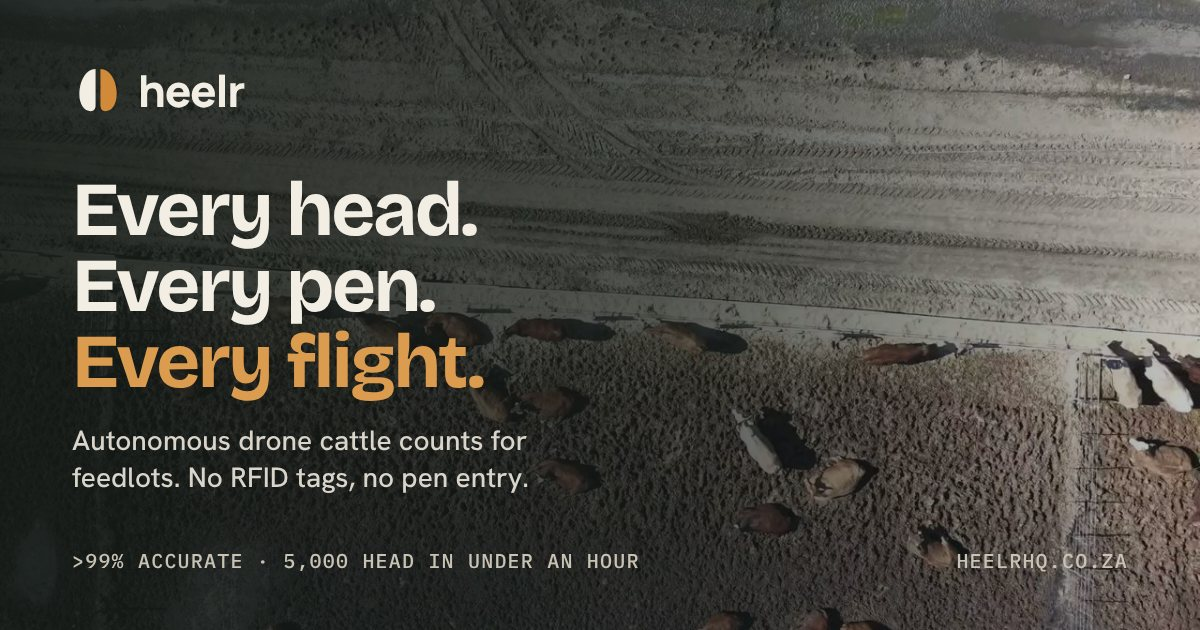
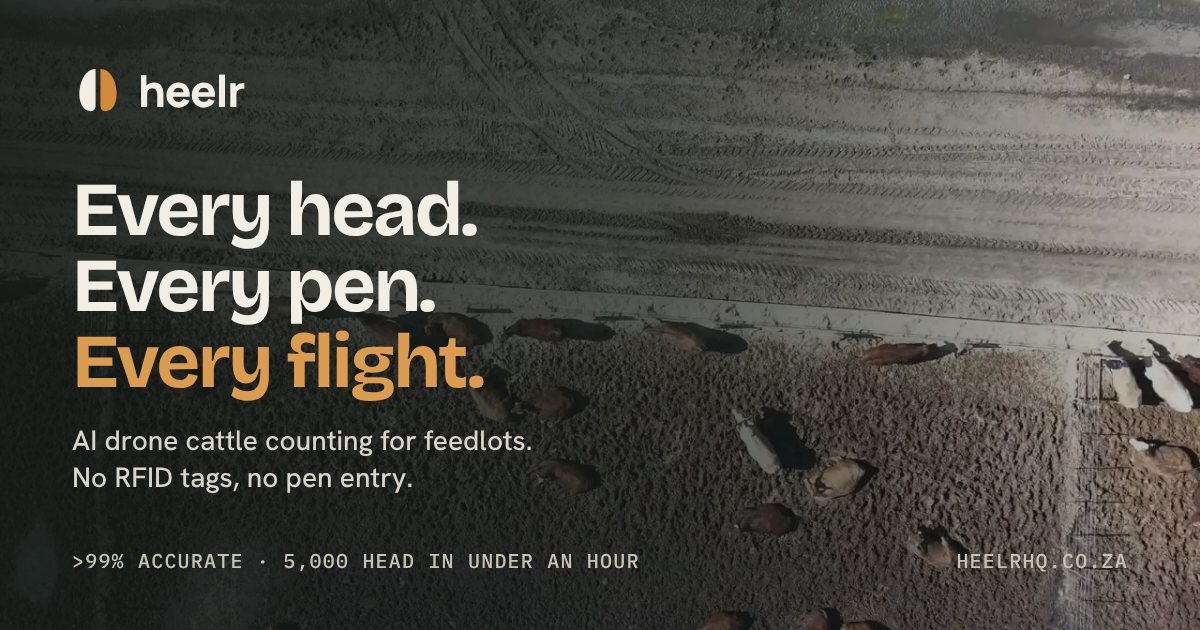
Say AI drone cattle counting for feedlots
Claude-Session: https://claude.ai/code/session_0159iGNoViggGwUeZ8gqCsxq

Changed region(s): [[0.0617, 0.6635, 0.4625, 0.7841]]

diff --git a/index.html b/index.html
@@ -6,14 +6,14 @@
 <meta name="theme-color" content="#1F2A24">
 <link rel="icon" href="favicon.svg" type="image/svg+xml">
 <link rel="apple-touch-icon" href="apple-touch-icon.png">
-<title>Heelr · Drone cattle counting for feedlots</title>
-<meta name="description" content="Autonomous drone cattle counts for feedlots. Over 99% accurate, 5,000 head in under an hour, with per-pen counts and video. No RFID tags, no pen entry.">
+<title>Heelr · AI drone cattle counting for feedlots</title>
+<meta name="description" content="AI drone cattle counting for feedlots. Over 99% accurate, 5,000 head in under an hour, with per-pen counts and video. No RFID tags, no pen entry.">
 <link rel="canonical" href="https://heelrhq.co.za/">
 <meta property="og:type" content="website">
 <meta property="og:site_name" content="Heelr">
 <meta property="og:url" content="https://heelrhq.co.za/">
 <meta property="og:title" content="Heelr · Every head. Every pen. Every flight.">
-<meta property="og:description" content="Autonomous drone cattle counts for feedlots. Over 99% accurate, no RFID tags, no pen entry.">
+<meta property="og:description" content="AI drone cattle counting for feedlots. Over 99% accurate, no RFID tags, no pen entry.">
 <meta property="og:image" content="https://heelrhq.co.za/assets/og.jpg">
 <meta property="og:image:width" content="1200">
 <meta property="og:image:height" content="630">
@@ -21,9 +21,9 @@
 <meta property="og:locale" content="en_ZA">
 <meta name="twitter:card" content="summary_large_image">
 <meta name="twitter:title" content="Heelr · Every head. Every pen. Every flight.">
-<meta name="twitter:description" content="Autonomous drone cattle counts for feedlots. Over 99% accurate, no RFID tags, no pen entry.">
+<meta name="twitter:description" content="AI drone cattle counting for feedlots. Over 99% accurate, no RFID tags, no pen entry.">
 <meta name="twitter:image" content="https://heelrhq.co.za/assets/og.jpg">
-<script type="application/ld+json">{"@context":"https://schema.org","@type":"Organization","name":"Heelr","url":"https://heelrhq.co.za/","logo":"https://heelrhq.co.za/apple-touch-icon.png","description":"Autonomous drone cattle counting for feedlots.","areaServed":"ZA"}</script>
+<script type="application/ld+json">{"@context":"https://schema.org","@type":"Organization","name":"Heelr","url":"https://heelrhq.co.za/","logo":"https://heelrhq.co.za/apple-touch-icon.png","description":"AI drone cattle counting for feedlots.","areaServed":"ZA"}</script>
 <link rel="preconnect" href="https://fonts.googleapis.com">
 <link rel="preconnect" href="https://fonts.gstatic.com" crossorigin>
 <link rel="stylesheet" href="https://fonts.googleapis.com/css2?family=Bricolage+Grotesque:opsz,wght@12..96,500..800&family=Hanken+Grotesk:wght@400;500;600;700&family=IBM+Plex+Mono:wght@400;500&family=Manrope:wght@800&display=swap">
@@ -475,7 +475,7 @@ mark.confirm{background:#FDE7C9;color:#7A3F0A;border-radius:4px;padding:1px 4px;
       <div class="steps3"><i class="on"></i><i></i><i></i></div>
     </div>
     <div class="wrap">
-      <p class="kicker" style="color:#E6B474">Drone cattle counting for feedlots</p>
+      <p class="kicker" style="color:#E6B474">AI drone cattle counting for feedlots</p>
       <h1 id="hero-h" style="margin-top:16px">Every head. Every pen. Every flight.</h1>
       <p class="sub">No expensive RFID tags, no pen entry, no guesswork.</p>
       <div class="cta-row">
